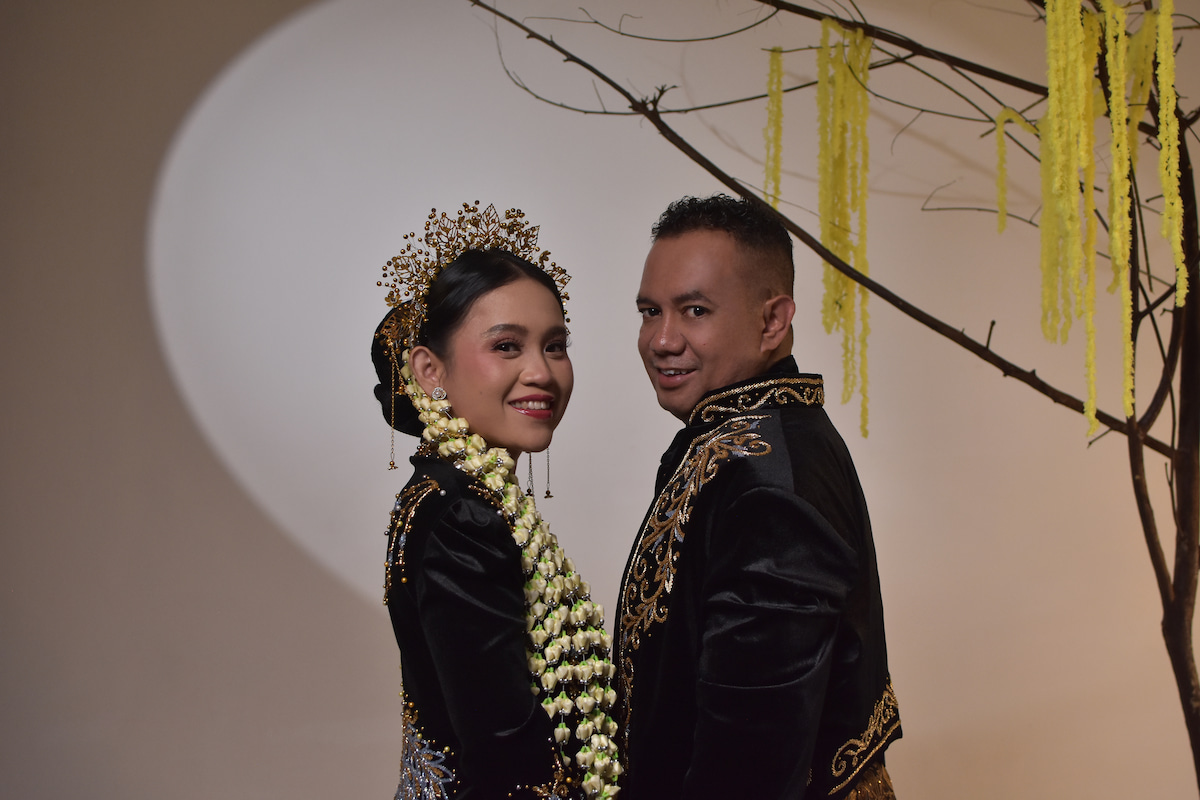
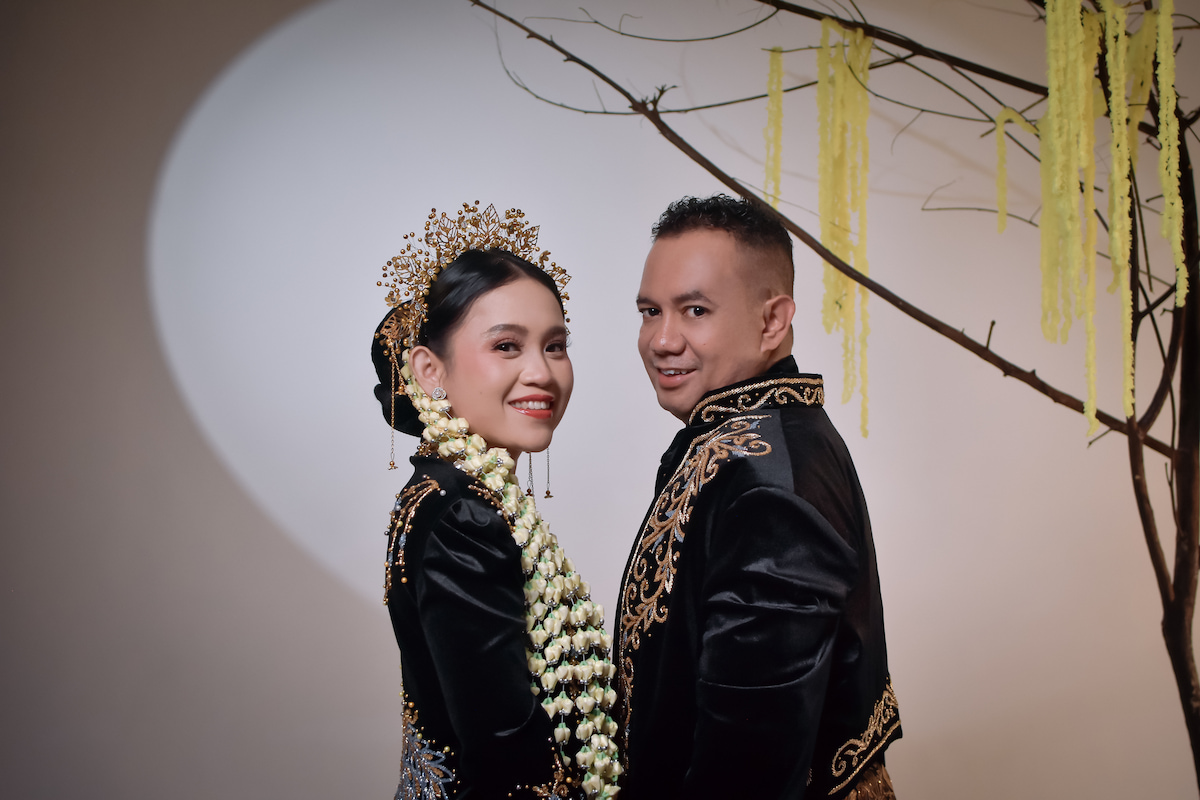
change the image wa

diff --git a/Wedding/src/components/Gallery.jsx b/Wedding/src/components/Gallery.jsx
@@ -6,6 +6,7 @@
 //   const [selected, setSelected] = useState(null);
 //   const sectionRef = useRef();
 //   const gridRef = useRef();
+//   const scrollerRef = useRef();
 
 //   useEffect(() => {
 //     const ctx = gsap.context(() => {
@@ -26,82 +27,83 @@
 //     return () => ctx.revert();
 //   }, []);
 
+//   // Saat lightbox dibuka, langsung scroll ke foto yang diklik
+//   useEffect(() => {
+//     if (selected !== null && scrollerRef.current) {
+//       const slide = scrollerRef.current.children[selected];
+//       slide?.scrollIntoView({ behavior: "instant", inline: "center" });
+//     }
+//   }, [selected]);
+
 //   return (
 //     <section
 //       ref={sectionRef}
-//       className="min-h-svh w-full bg-black flex flex-col items-center px-6 py-16 gap-8"
+//       className="min-h-svh w-full bg-black flex flex-col items-center px-6 py-20 gap-10"
 //     >
 //       <div className="flex flex-col items-center text-center">
 //         <p className="text-xs font-label tracking-[0.3em] uppercase text-white/50">
 //           Our Moments
 //         </p>
-//         <h2 className="mt-3 font-display text-3xl font-semibold text-white">
+//         <h2 className="mt-3 font-display text-4xl font-semibold text-white">
 //           Galeri Foto
 //         </h2>
-//         <div className="w-10 h-px bg-white/30 my-4"></div>
+//         <div className="w-10 h-px bg-white/30 mt-5"></div>
 //       </div>
 
-//       <div ref={gridRef} className="w-full max-w-md grid grid-cols-3 gap-2">
+//       <div
+//         ref={gridRef}
+//         className="w-full max-w-md grid grid-cols-3 auto-rows-27.5 gap-1.5"
+//       >
 //         {img.map((item, i) => (
 //           <button
 //             key={i}
 //             onClick={() => setSelected(i)}
-//             className="relative aspect-square overflow-hidden cursor-pointer group"
+//             className={`relative overflow-hidden cursor-pointer group ${
+//               i % 5 === 0 ? "col-span-2 row-span-2" : ""
+//             }`}
 //           >
 //             <img
 //               src={item.foto}
 //               alt=""
-//               className="absolute inset-0 w-full h-full object-cover group-hover:scale-110 transition-transform duration-300"
+//               className="absolute inset-0 w-full h-full object-cover group-hover:scale-110 transition-transform duration-500"
 //             />
+//             <div className="absolute inset-0 bg-black/0 group-hover:bg-black/20 transition-colors duration-300" />
 //           </button>
 //         ))}
 //       </div>
 
 //       {selected !== null && (
-//         <div
-//           className="fixed inset-0 z-50 bg-black/95 flex items-center justify-center px-6"
-//           onClick={() => setSelected(null)}
-//         >
+//         <div className="fixed inset-0 z-50 bg-black/95 flex flex-col">
 //           <button
 //             onClick={() => setSelected(null)}
 //             aria-label="Tutup"
-//             className="absolute top-6 right-6 w-10 h-10 flex items-center justify-center text-white text-2xl cursor-pointer"
+//             className="absolute top-6 right-6 z-10 w-10 h-10 flex items-center justify-center text-white text-2xl cursor-pointer"
 //           >
 //             ×
 //           </button>
 
-//           {selected > 0 && (
-//             <button
-//               onClick={(e) => {
-//                 e.stopPropagation();
-//                 setSelected(selected - 1);
-//               }}
-//               aria-label="Foto sebelumnya"
-//               className="absolute left-3 top-1/2 -translate-y-1/2 w-10 h-10 flex items-center justify-center rounded-full bg-white/10 text-white hover:bg-white hover:text-black transition-colors duration-300 cursor-pointer"
-//             >
-//               ⟪
-//             </button>
-//           )}
+//           <div
+//             ref={scrollerRef}
+//             className="flex-1 flex snap-x snap-mandatory overflow-x-auto overflow-y-hidden"
+//             style={{ scrollbarWidth: "none" }}
+//           >
+//             {img.map((item, i) => (
+//               <div
+//                 key={i}
+//                 className="snap-center shrink-0 w-full h-full flex items-center justify-center px-6"
+//               >
+//                 <img
+//                   src={item.foto}
+//                   alt=""
+//                   className="max-w-full max-h-[80vh] object-contain"
+//                 />
+//               </div>
+//             ))}
+//           </div>
 
-//           {selected < img.length - 1 && (
-//             <button
-//               onClick={(e) => {
-//                 e.stopPropagation();
-//                 setSelected(selected + 1);
-//               }}
-//               aria-label="Foto berikutnya"
-//               className="absolute right-3 top-1/2 -translate-y-1/2 w-10 h-10 flex items-center justify-center rounded-full bg-white/10 text-white hover:bg-white hover:text-black transition-colors duration-300 cursor-pointer"
-//             >
-//               ⟫
-//             </button>
-//           )}
-
-//           <img
-//             src={img[selected].foto}
-//             alt=""
-//             onClick={(e) => e.stopPropagation()}
-//             className="max-w-full max-h-[80vh] object-contain"
-//           />
+//           <p className="text-center pb-6 text-xs font-label tracking-widest text-white/50">
+//             Geser untuk melihat foto lainnya
+//           </p>
 //         </div>
 //       )}
 //     </section>
@@ -111,6 +113,33 @@
 import { useEffect, useRef, useState } from "react";
 import gsap from "gsap";
 import { img } from "./img.js";
+
+// Pola grid untuk TEPAT 9 foto, mengisi 6 baris x 3 kolom tanpa lubang.
+//
+//   Blok atas (foto 0-4, pink):
+//     baris 1-2:  [ BESAR (2x2) ] [ TINGGI ]
+//     baris 3:    [ kecil ] [ kecil ] [ kecil ]
+//   Blok bawah (foto 5-8, merah):
+//     baris 4-5:  [ TINGGI ] [ BESAR (2x2) ]
+//     baris 6:    [ LEBAR (2x1) ] [ kecil ]
+//
+// Urutan kelas ini mengikuti urutan foto di img.js (indeks 0 sampai 8).
+// Kalau jumlah foto berubah dari 9, susunan ini harus disesuaikan.
+const POLA = [
+  "col-span-2 row-span-2", // 0 besar
+  "row-span-2", // 1 tinggi
+  "", // 2 kecil
+  "", // 3 kecil
+  "", // 4 kecil
+  "row-span-2", // 5 tinggi
+  "col-span-2 row-span-2", // 6 besar
+  "col-span-2", // 7 lebar
+  "", // 8 kecil
+];
+
+function kelasKotak(i) {
+  return POLA[i] ?? "";
+}
 
 export default function Gallery() {
   const [selected, setSelected] = useState(null);
@@ -162,15 +191,13 @@ export default function Gallery() {
 
       <div
         ref={gridRef}
-        className="w-full max-w-md grid grid-cols-3 auto-rows-[110px] gap-1.5"
+        className="w-full max-w-md grid grid-cols-3 auto-rows-27.5 gap-1.5"
       >
         {img.map((item, i) => (
           <button
             key={i}
             onClick={() => setSelected(i)}
-            className={`relative overflow-hidden cursor-pointer group ${
-              i % 5 === 0 ? "col-span-2 row-span-2" : ""
-            }`}
+            className={`relative overflow-hidden cursor-pointer group ${kelasKotak(i)}`}
           >
             <img
               src={item.foto}

diff --git a/Wedding/src/components/Hero.jsx b/Wedding/src/components/Hero.jsx
@@ -13,11 +13,6 @@ export default function Hero({ handleScroll }) {
   const audioRef = useRef();
 
   function handleBuka() {
-    // Mulai muter lagu bareng animasi overlay memudar.
-    // .play() itu method bawaan elemen <audio> buat mulai muter.
-    // Dibungkus try/catch karena beberapa browser bisa menolak play
-    // meski sudah dipicu klik user, biar tidak bikin error yang
-    // menghentikan animasi overlay-nya.
     audioRef.current?.play().catch(() => {});
 
     gsap.to(overlayRef.current, {
@@ -42,9 +37,7 @@ export default function Hero({ handleScroll }) {
 
   return (
     <>
-      {/* loop: lagu ulang terus dari awal kalau sudah habis.
-          playsInline: penting khusus iOS Safari, biar audio tidak
-          otomatis fullscreen atau berlaku aneh saat diputar. */}
+     
       <audio ref={audioRef} src={musikLatar} loop playsInline />
 
       {/* Tombol mute/unmute, muncul setelah undangan dibuka */}
@@ -86,7 +79,7 @@ export default function Hero({ handleScroll }) {
             The Wedding Of
           </p>
           <h1 className="mt-3 flex flex-col items-center font-display font-semibold tracking-wide">
-            <span className="text-4xl sm:text-5xl">Yosef</span>
+            <span className="text-4xl sm:text-5xl">Yoshep</span>
             <span className="-my-1 text-2xl italic font-normal text-white/60">
               &
             </span>

diff --git a/Wedding/src/components/img.js b/Wedding/src/components/img.js
@@ -13,7 +13,7 @@ import img10 from "../assets/new.webp";
 export const img = [
   {
     name: 1,
-    foto: img1
+    foto: img6
   },
   {
     name: 2,
@@ -33,7 +33,7 @@ export const img = [
   },
   {
     name: 6,
-    foto: img6
+    foto: img1
   },
   {
     name: 7,
@@ -43,10 +43,10 @@ export const img = [
     name: 8,
     foto: img8
   },
-  {
-    name: 9,
-    foto: img9
-  },
+  // {
+  //   name: 9,
+  //   foto: img9
+  // },
   {
     name: 10,
     foto: img10

diff --git a/Wedding/src/components/MempelaiPria.jsx b/Wedding/src/components/MempelaiPria.jsx
@@ -14,7 +14,7 @@ export default function MempelaiPria() {
         <p className="text-xs font-label tracking-[0.3em] uppercase text-white/70">
           The Groom
         </p>
-        <h2 className="font-display text-5xl font-semibold mt-3">Yosef</h2>
+        <h2 className="font-display text-5xl font-semibold mt-3">Yoshep</h2>
         <div className="w-10 h-px bg-white/40 my-4"></div>
         <h3 className="font-body text-xl">Yoshep Sira Hadjon</h3>
 
